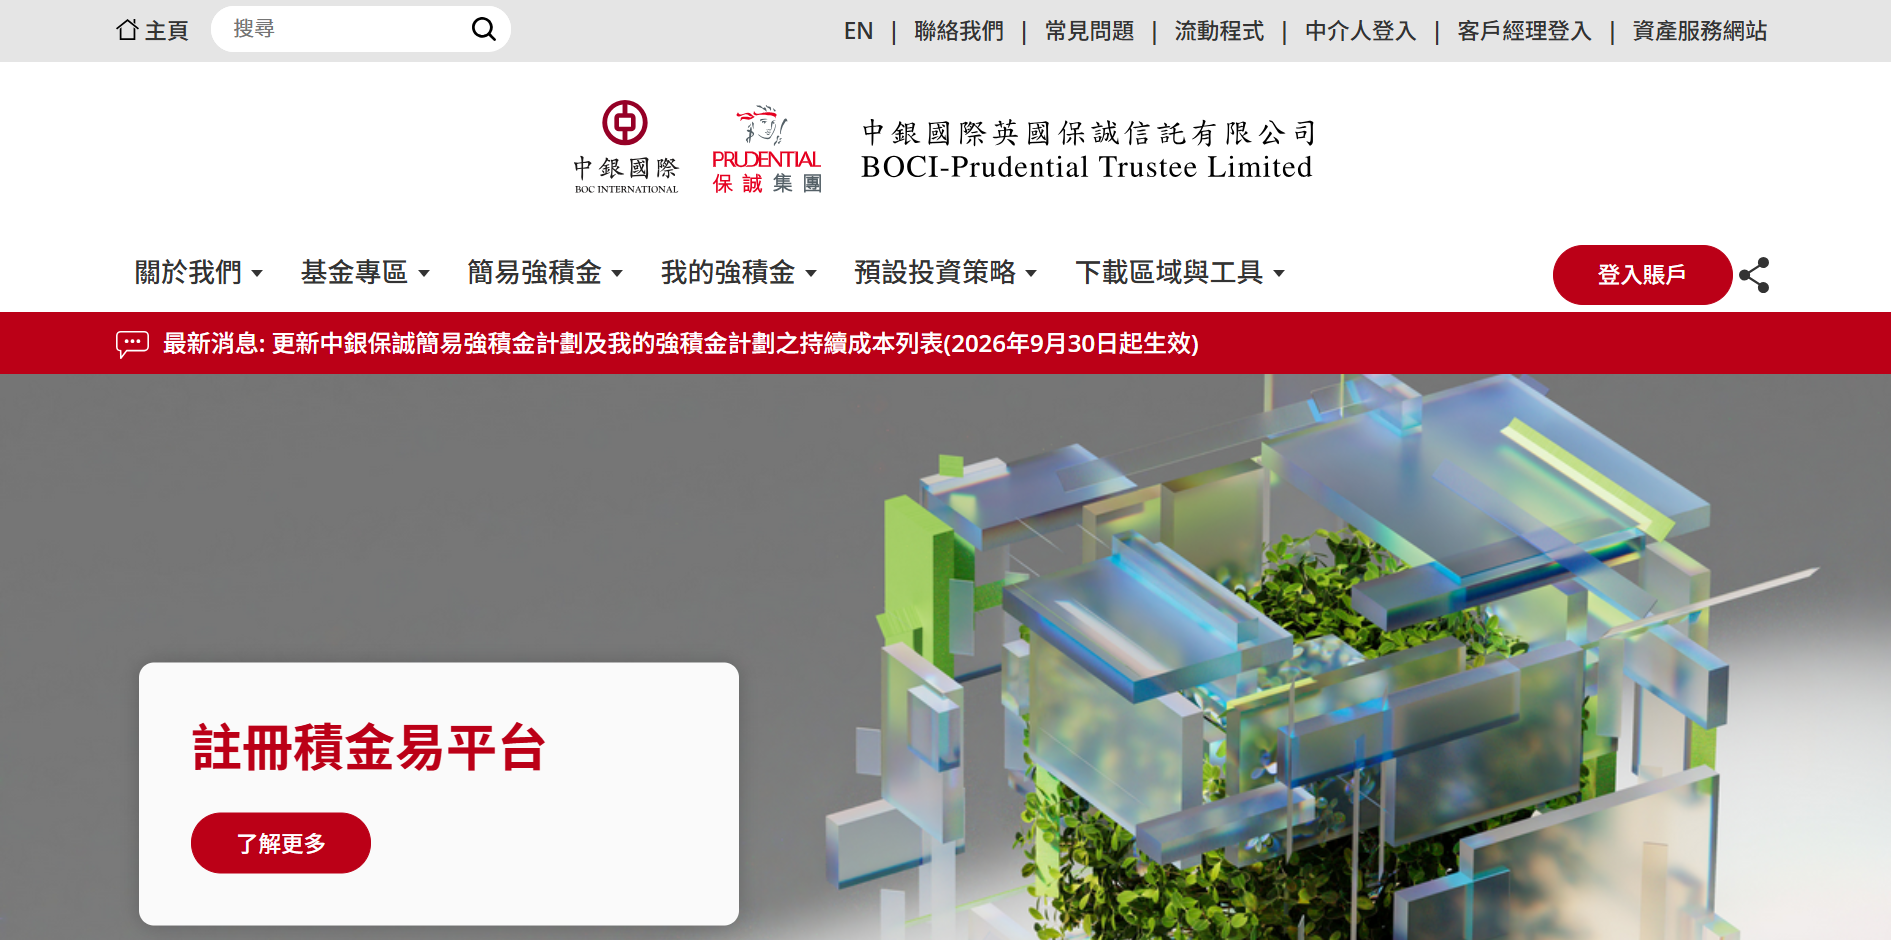
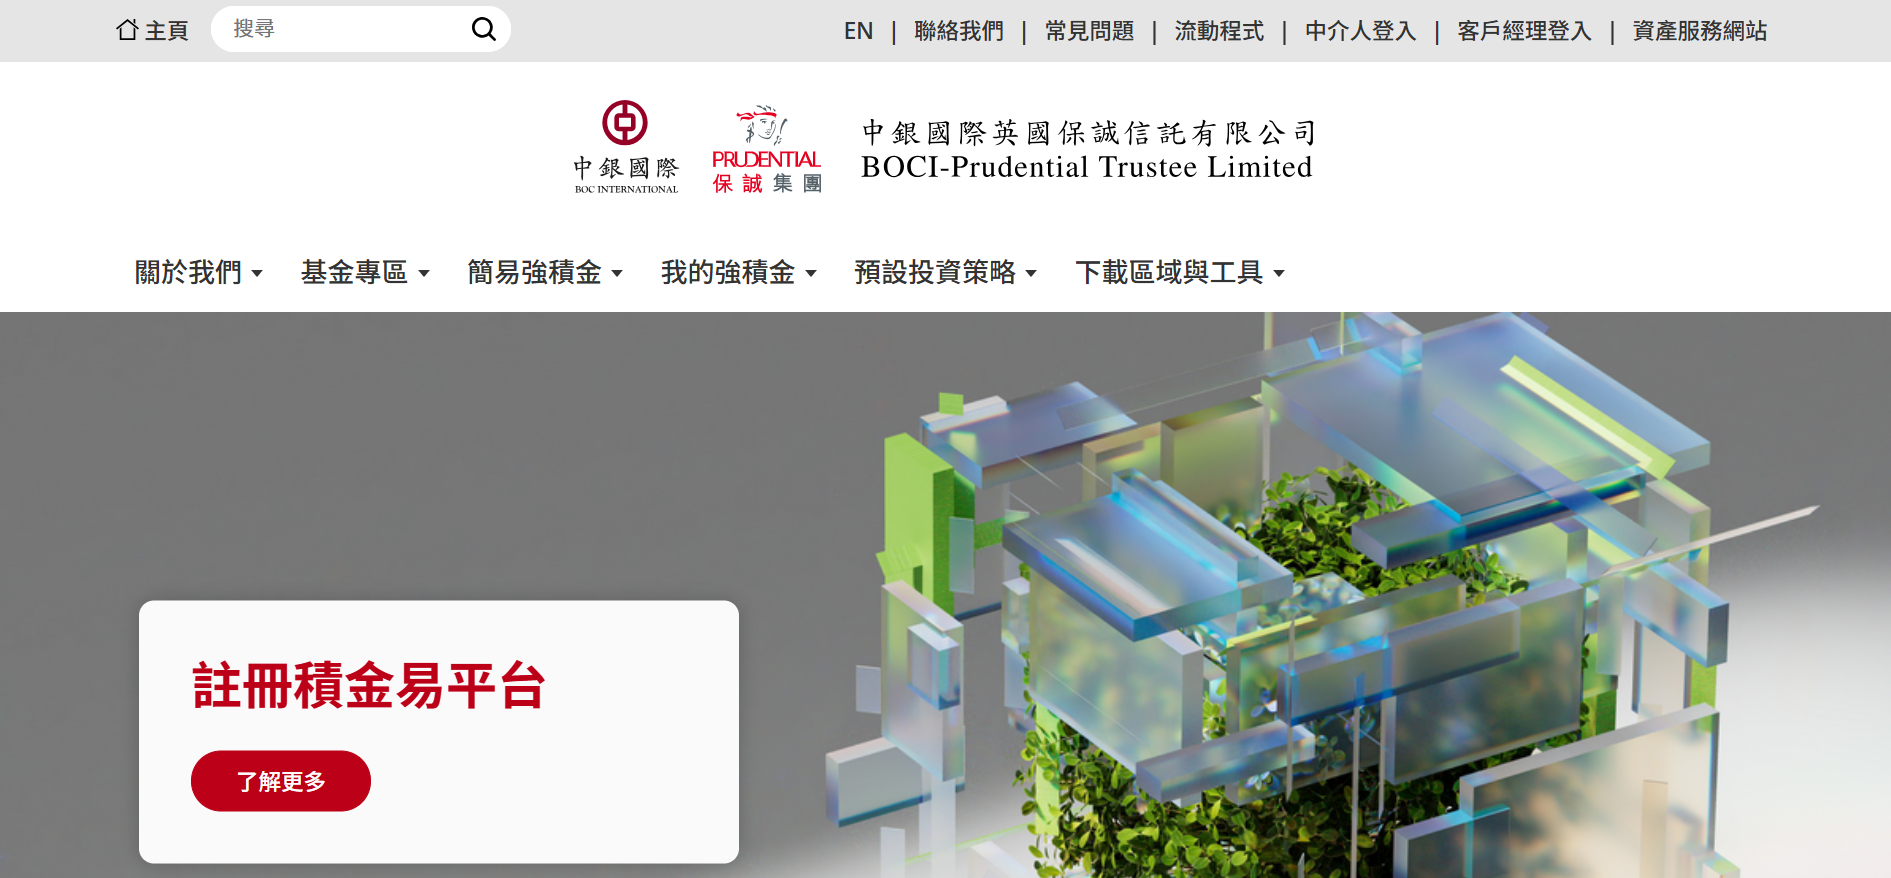
Remove the mockup sign-in and the bars above the page and chat.
The site screenshot no longer shows the account sign-in button or the news bar, and the chat panel no longer has the sign-in strip or the demo bar.

diff --git a/chat-widget/index.html b/chat-widget/index.html
@@ -55,12 +55,6 @@
     </div>
   </div>
 
-  <div class="badge" id="badge"></div>
-
-  <div class="auth" id="authStrip">
-    <span class="pill"></span><span id="authText"></span><a id="authLink" onclick="toggleAuth()"></a>
-  </div>
-
   <div class="msgs" id="msgs"></div>
 
   <div class="foot" id="foot"></div>
@@ -101,7 +95,6 @@
 /* ================= CONTENT ================= */
 const C = {
 en:{
-  badge:"Demo — not a live system",
   title:"BOCI-Prudential Assistant", hsub:"MPF member support",
   foot:"Answers are generated by AI from approved documents. Always verify before acting.",
   dTitle:"Before you start", dBody:"This assistant answers general MPF questions using approved BOCI-Prudential documents. It does not give investment advice, does not recommend funds, and cannot carry out transactions. Your conversation may be reviewed to improve the service.",
@@ -109,9 +102,6 @@ en:{
   dYes:"I understand", dNo:"Close",
   blockedHint:"Accept the notice above to start asking questions.",
   bStamp:"Notice accepted — kept in this conversation as a record.",
-  signIn:"Sign in", signOut:"Sign out",
-  authOut:"Not signed in — general questions only",
-  authIn:"Signed in as <b>C*** W**</b> · My Choice MPF",
   emptyH:"How can I help?", emptyP:"Ask about your MPF, or pick one of these.",
   ph:"Type your question…", phIn:"Ask about your account…",
   typing:"Thinking",
@@ -201,7 +191,6 @@ en:{
   ]
 },
 tc:{
-  badge:"示範 — 並非實際系統",
   title:"中銀保誠智能助理", hsub:"強積金成員支援",
   foot:"回覆由人工智能根據已核准的文件生成。採取行動前請自行核實。",
   dTitle:"開始之前", dBody:"此助理根據中銀保誠已核准的文件回答一般強積金問題。它不會提供投資建議，不會推薦基金，亦不能執行任何交易。你的對話可能會被檢視以改善服務。",
@@ -209,9 +198,6 @@ tc:{
   dYes:"我明白", dNo:"關閉",
   blockedHint:"請先接受上方提示，然後才可提問。",
   bStamp:"已接受提示 — 此對話會保留該紀錄。",
-  signIn:"登入", signOut:"登出",
-  authOut:"未登入 — 只可查詢一般問題",
-  authIn:"已登入：<b>C*** W**</b> · 自選強積金計劃",
   emptyH:"有什麼可以幫你？", emptyP:"查詢你的強積金，或選擇以下一項。",
   ph:"輸入你的問題…", phIn:"查詢你的帳戶…",
   typing:"思考中",
@@ -301,7 +287,6 @@ tc:{
   ]
 },
 sc:{
-  badge:"示范 — 并非实际系统",
   title:"中银保诚智能助理", hsub:"强积金成员支持",
   foot:"回复由人工智能根据已核准的文件生成。采取行动前请自行核实。",
   dTitle:"开始之前", dBody:"此助理根据中银保诚已核准的文件回答一般强积金问题。它不会提供投资建议，不会推荐基金，亦不能执行任何交易。你的对话可能会被检视以改善服务。",
@@ -309,9 +294,6 @@ sc:{
   dYes:"我明白", dNo:"关闭",
   blockedHint:"请先接受上方提示，然后才可提问。",
   bStamp:"已接受提示 — 此对话会保留该记录。",
-  signIn:"登录", signOut:"登出",
-  authOut:"未登录 — 只可查询一般问题",
-  authIn:"已登录：<b>C*** W**</b> · 自选强积金计划",
   emptyH:"有什么可以帮你？", emptyP:"查询你的强积金，或选择以下一项。",
   ph:"输入你的问题…", phIn:"查询你的账户…",
   typing:"思考中",
@@ -604,15 +586,11 @@ document.querySelector('.switcher .sw').classList.add('on');
 function render(){
   const t=C[lang];
   document.documentElement.lang = lang==='en'?'en':'zh-HK';
-  $('badge').textContent=t.badge;
   $('hTitle').textContent=t.title; $('hSub').textContent=t.hsub;
   $('foot').textContent=t.foot;
   $('ta').placeholder=signed?t.phIn:t.ph;
   $('dTitle').textContent=t.dTitle; $('dBody').textContent=t.dBody; $('dAcc').textContent=t.dAcc;
   $('dYes').textContent=t.dYes; $('dNo').textContent=t.dNo;
-  $('authLink').textContent=signed?t.signOut:t.signIn;
-  $('authText').innerHTML=signed?t.authIn:t.authOut;
-  $('authStrip').className='auth'+(signed?' in':'');
   setInputBlocked(!agreed);
   drawMsgs();
   /* variant C open: rebuild the terms in the new language and re-arm the
@@ -699,7 +677,6 @@ function accept(){agreed=true;hideConsent();setInputBlocked(false);drawMsgs();$(
 function decline(){agreed=false;hideConsent();closePanel();setInputBlocked(true)}
 function toggleMax(){maxed=!maxed;$('panel').classList.toggle('max',maxed);
   if(consentMode==='C'&&!agreed&&$('terms').style.display!=='none')placeTerms()}
-function toggleAuth(){signed=!signed;render()}
 function newSession(){hist=[];drawMsgs();$('ta').value='';grow($('ta'))}
 function vote(btn,ok){btn.parentNode.querySelectorAll('button').forEach(b=>b.classList.remove('sel'));btn.classList.add('sel')}
 function grow(el){el.style.height='auto';el.style.height=Math.min(el.scrollHeight,88)+'px'}
@@ -711,7 +688,7 @@ function match(text){
   const s=text.toLowerCase();
   for(const k in t){ if(t[k].ask.toLowerCase()===s) return k }
   if(/withdraw|提取|提取/.test(s)) return signed?'refusal':'routing';
-  if(/balance|how much|結餘|结余|多少/.test(s)) return signed?'account':'markdown';
+  if(/balance|how much|結餘|结余|多少/.test(s)) return 'account';
   if(/fund|perform|基金|表現|表现/.test(s)) return 'image';
   if(/complain|late|employer|投訴|投诉|僱主|雇主/.test(s)) return 'escalate';
   return 'markdown';

diff --git a/chat-widget/style.css b/chat-widget/style.css
@@ -72,18 +72,6 @@ body.has-icon .launcher svg{display:none}
   font-size:11.5px; padding:5px 7px; cursor:pointer; font-family:inherit; font-weight:600}
 .lang option{color:#1F2430}
 
-/* demo badge */
-.badge{background:#7F000E; color:#FFD6DA; text-align:center; font-size:10.5px; letter-spacing:.1em;
-  text-transform:uppercase; padding:4px; flex:0 0 auto; font-weight:700}
-
-/* auth strip */
-.auth{background:var(--red-lt); border-bottom:1px solid #E9CFD2; padding:8px 14px; display:flex;
-  align-items:center; gap:8px; font-size:12px; color:#7A1A22; flex:0 0 auto}
-.auth .pill{width:7px; height:7px; border-radius:50%; background:#9AA3AF; flex:0 0 auto}
-.auth.in .pill{background:#2FBF71}
-.auth b{font-weight:650}
-.auth a{margin-left:auto; color:var(--red); font-weight:650; cursor:pointer; text-decoration:none; white-space:nowrap}
-
 /* messages */
 .msgs{flex:1; overflow-y:auto; padding:16px 14px; background:#FBFBFC; scroll-behavior:smooth}
 .msgs::-webkit-scrollbar{width:7px}
